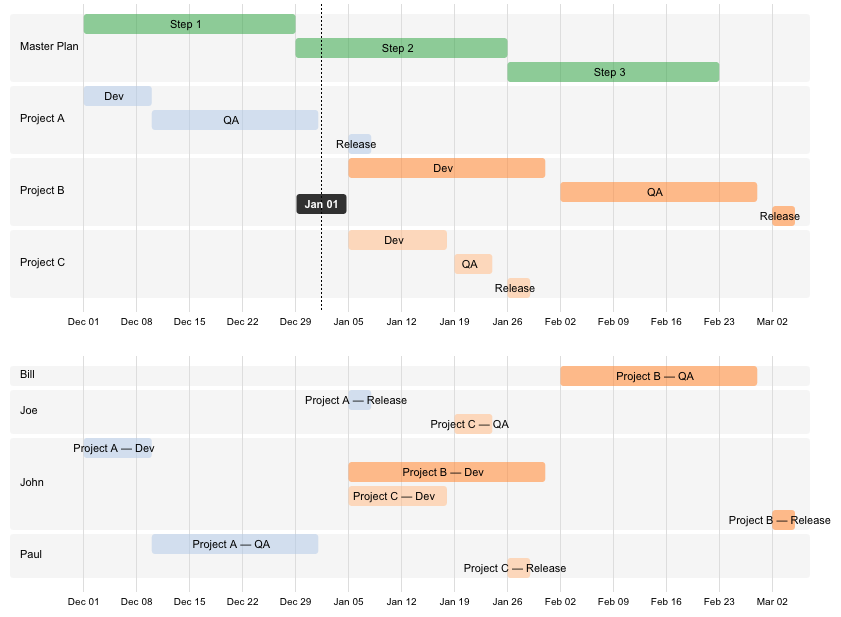
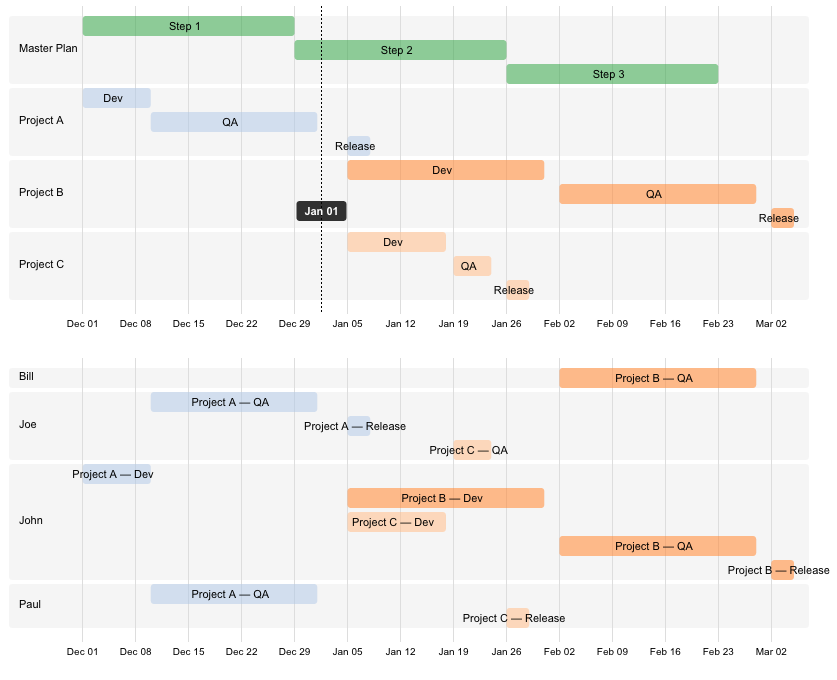
Update example

diff --git a/example.html b/example.html
@@ -33,6 +33,7 @@
     Project A, QA
     2014-12-10 > 2014-12-31
     Paul
+    Joe
 
     Project A, Release
     2015-1-5 > 2015-1-7
@@ -45,6 +46,7 @@
     Project B, QA
     2015-2-2 > 2015-2-27
     Bill
+    John
 
     Project B, Release
     2015-3-2 > 2015-3-4

diff --git a/README.md b/README.md
@@ -10,41 +10,52 @@ Add a `<div class="roadmap">` in your page like this one:
 
 ```
 <div class="roadmap">
-  Project A, Dev
-  2014-12-1 > 2014-12-9
+Project A, Dev
+2014-12-1 > 2014-12-9
+John
 
-  Project A, QA
-  2014-12-10 > 2014-12-31
+Project A, QA
+2014-12-10 > 2014-12-31
+Paul
+Joe
 
-  Project A, Release
-  2015-1-5 > 2015-1-7
+Project A, Release
+2015-1-5 > 2015-1-7
+Joe
 
-  Project B, Dev
-  2015-1-5 > 2015-1-30
+Project B, Dev
+2015-1-5 > 2015-1-30
+John
 
-  Project B, QA
-  2015-2-2 > 2015-2-27
+Project B, QA
+2015-2-2 > 2015-2-27
+Bill
+John
 
-  Project B, Release
-  2015-3-2 > 2015-3-4
+Project B, Release
+2015-3-2 > 2015-3-4
+John
 
-  Project C, Dev
-  2015-1-5 > 2015-1-17
+Project C, Dev
+2015-1-5 > 2015-1-17
+John
 
-  Project C, QA
-  2015-1-19 > 2015-1-23
+Project C, QA
+2015-1-19 > 2015-1-23
+Joe
 
-  Project C, Release
-  2015-1-26 > 2015-1-28
+Project C, Release
+2015-1-26 > 2015-1-28
+Paul
 
-  Master Plan, Step 1
-  2014-12-1 > 2014-12-28
+Master Plan, Step 1
+2014-12-1 > 2014-12-28
 
-  Master Plan, Step 2
-  2014-12-29 > 2015-1-25
+Master Plan, Step 2
+2014-12-29 > 2015-1-25
 
-  Master Plan, Step 3
-  2015-1-26 > 2015-2-22
+Master Plan, Step 3
+2015-1-26 > 2015-2-22
 </div>
 ```
 You will get:
